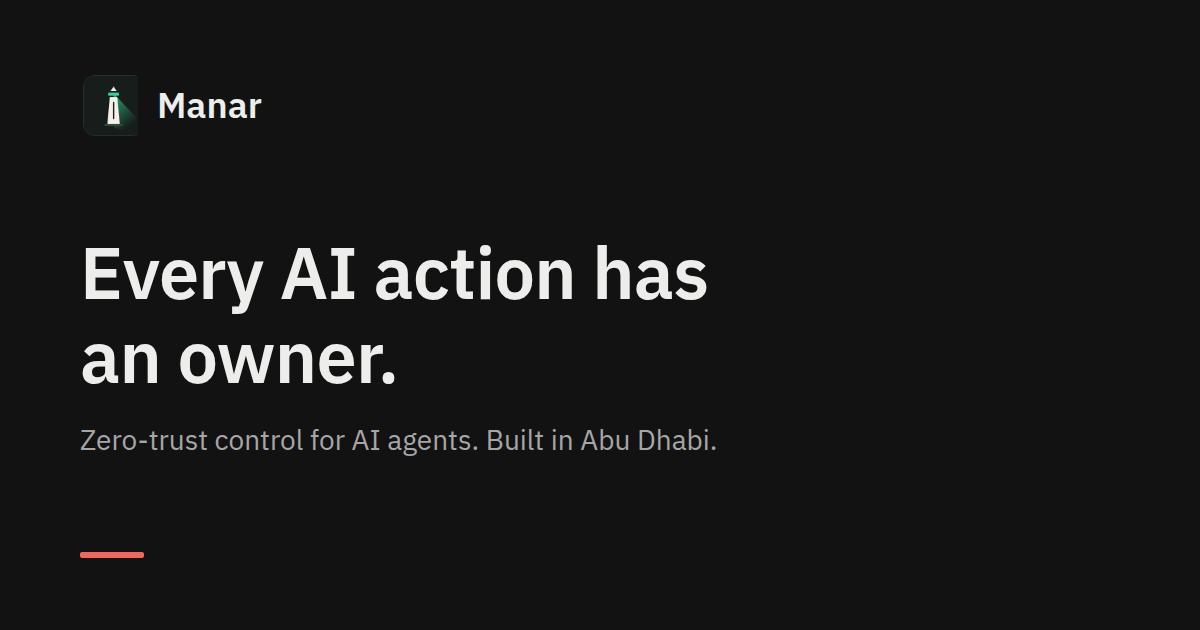
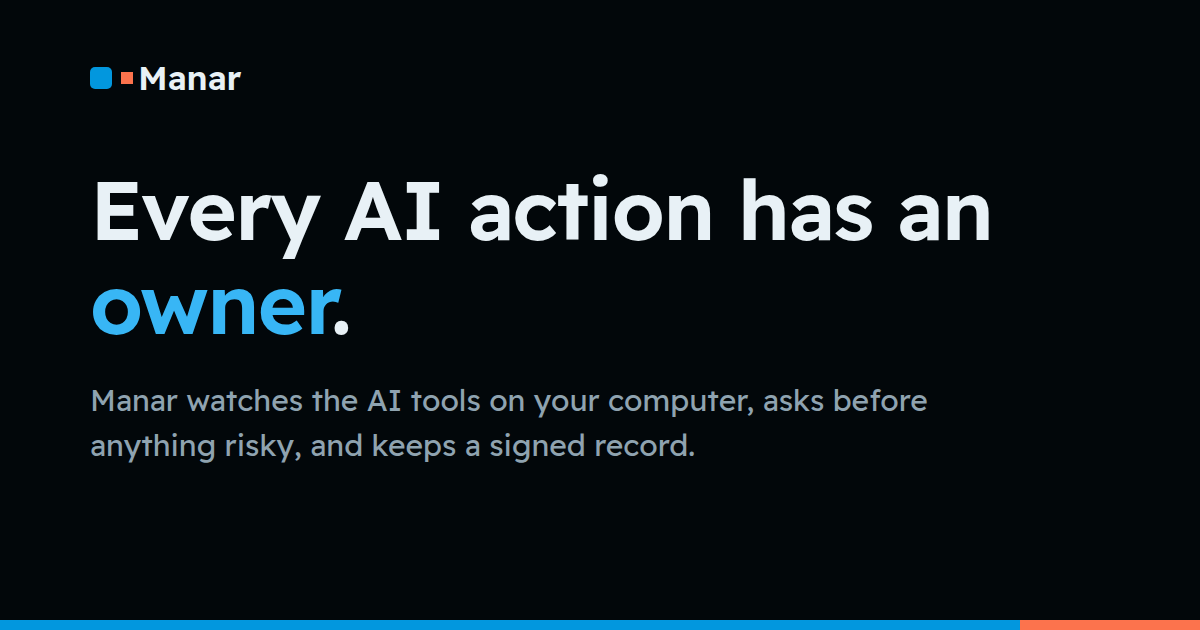
feat(landing): sample link to /sample, Midnight OG images, 7-day backup retention

diff --git a/lib/content/legal/privacy.ts b/lib/content/legal/privacy.ts
@@ -115,7 +115,7 @@ export const privacy: Record<Locale, LegalDoc> = {
               "Idle free workspaces: a free workspace with no activity for 60 days is archived and then dropped. We email you a warning before each step.",
               "Billing records: as long as tax law requires.",
               "Server logs: 30 days.",
-              "Backups: encrypted backups roll off on their normal cycle, no later than [backup retention period] after deletion.",
+              "Backups: encrypted backups roll off on their normal cycle, no later than 7 days after deletion.",
               "Website requests and bookings: 12 months after our last contact with you.",
             ],
           },
@@ -274,7 +274,7 @@ export const privacy: Record<Locale, LegalDoc> = {
               "مساحات العمل المجانية الخاملة: تُؤرشف مساحة العمل المجانية التي لا نشاط فيها لمدة 60 يوماً ثم تُسقط. ونرسل إليك بريداً تحذيرياً قبل كل خطوة.",
               "سجلات الفوترة: بالقدر الذي يوجبه قانون الضرائب.",
               "سجلات الخوادم: 30 يوماً.",
-              "النسخ الاحتياطية: تُحذف النسخ الاحتياطية المشفرة وفق دورتها المعتادة، وفي موعد لا يتجاوز [مدة الاحتفاظ بالنسخ الاحتياطية] بعد الحذف.",
+              "النسخ الاحتياطية: تُحذف النسخ الاحتياطية المشفرة وفق دورتها المعتادة، وفي موعد لا يتجاوز 7 أيام بعد الحذف.",
               "طلبات الموقع والحجوزات: 12 شهراً بعد آخر تواصل معك.",
             ],
           },

diff --git a/lib/launch/links.ts b/lib/launch/links.ts
@@ -5,8 +5,8 @@ export const GITHUB_URL = "https://github.com/manarhq"
 
 export const links = {
   console: CONSOLE_URL,
-  /** Sample workspace entry (identity track owns the console route; adjust here if it differs). */
-  sample: `${CONSOLE_URL}/?sample=1`,
+  /** Sample workspace (features track builds it; signed-out users go to sign-in first). */
+  sample: `${CONSOLE_URL}/sample`,
   status: STATUS_URL,
   github: GITHUB_URL,
 } as const
